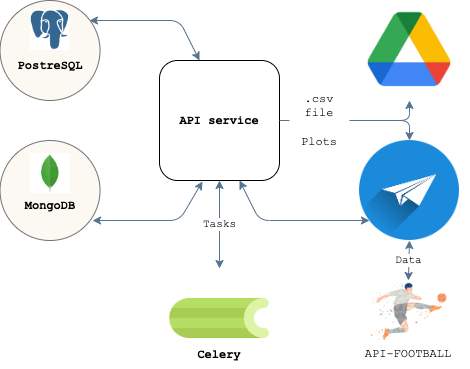
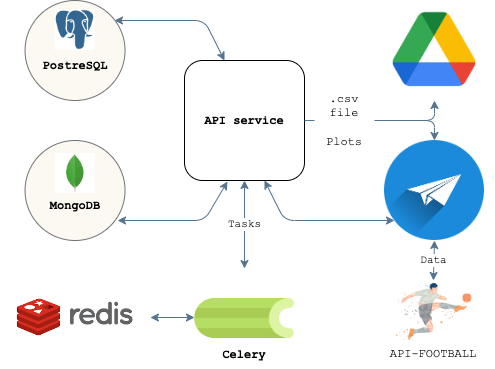
change bot and celery interaction

diff --git a/bot/bot.py b/bot/bot.py
@@ -1,14 +1,16 @@
 import os
 import sys
 from telegram import InlineKeyboardButton, InlineKeyboardMarkup
-from telegram.ext import Updater
+from telegram.ext import Updater, MessageHandler, filters
 from telegram.ext.commandhandler import CommandHandler
 from telegram.ext.callbackqueryhandler import CallbackQueryHandler
 from dotenv import load_dotenv
 from asgiref.sync import async_to_sync
 
-from data_receiver import export_data_to_bot
+from data_receiver import push_task_to_api, get_celery_info, get_result
 from api_football import get_pl_teams
+from database import init_db
+from logger import logger
 
 
 load_dotenv()
@@ -22,6 +24,9 @@ API_PORT = os.getenv('API_PORT')
 URL_DATASET = f'http://{HOST}:{API_PORT}/file-dataset/{PERIOD}'
 URL_DYNAMICS = f'http://{HOST}:{API_PORT}/file-dynamics/{PERIOD}'
 URL_DISPLOT = f'http://{HOST}:{API_PORT}/file-displot/{PERIOD}'
+
+
+cache_db = init_db()
 
 
 def start(update, context):
@@ -47,15 +52,26 @@ def button(update, context):
     query.edit_message_text(text=f"Selected option: {query.data}")
     id = query.message.chat.id
     if query.data == 'dynamics':
+        cache_db.set('current_task_type', 'dynamics')
         async_to_sync(
-            export_data_to_bot)(update, context, id, URL_DYNAMICS)
+            push_task_to_api)(update, context, id, URL_DYNAMICS)
     elif query.data == 'dataset':
-        async_to_sync(export_data_to_bot)(update, context, id, URL_DATASET)
+        cache_db.set('current_task_type', 'dataset')
+        async_to_sync(push_task_to_api)(update, context, id, URL_DATASET)
     elif query.data == 'displot':
-        async_to_sync(export_data_to_bot)(update, context, id, URL_DISPLOT)
+        cache_db.set('current_task_type', 'displot')
+        async_to_sync(push_task_to_api)(update, context, id, URL_DISPLOT)
     elif query.data == 'pl':
         teams = async_to_sync(get_pl_teams)()
         query.edit_message_text(text='\n'.join(teams))
+
+
+def reply(update, context):
+    user_input = update.message.text
+    if not user_input.startswith('/'):
+        cache_db.set('current_id', user_input)
+    update.message.reply_text(
+        async_to_sync(get_celery_info)(user_input))
 
 
 def error(update, context):
@@ -63,10 +79,21 @@ def error(update, context):
     pass
 
 
+def result(update, context):
+    task_id = cache_db.get('current_id').decode('utf-8')
+    logger.info(f'task {task_id}')
+    chat_id = update.message.chat.id
+    async_to_sync(get_result)(update, context, chat_id, task_id)
+    cache_db.set('current_id', None)
+    cache_db.set('current_task_type', None)
+
+
 def main():
     updater = Updater(API_TOKEN, use_context=True)
     updater.dispatcher.add_handler(CommandHandler("start", start))
+    updater.dispatcher.add_handler(CommandHandler("result", result))
     updater.dispatcher.add_handler(CallbackQueryHandler(button))
+    updater.dispatcher.add_handler(MessageHandler(filters.Filters.text, reply))
     updater.dispatcher.add_error_handler(error)
     updater.start_polling()
     updater.idle()

diff --git a/api_app/routers.py b/api_app/routers.py
@@ -3,18 +3,28 @@ from datetime import datetime
 from fastapi import APIRouter, Depends, HTTPException
 from sqlalchemy.orm import Session
 from starlette.requests import Request
-from fastapi.responses import FileResponse
+from fastapi.responses import FileResponse, JSONResponse
 
 from api_app import dependencies
+from api_app.database import cache_db
 from api_app.clubs import crud, schemas
-from api_app.events import make_event, get_filtered_statistics
-from api_app.export import build_bar_plot, build_dynamics_plot, build_displot
+from api_app.events import make_event
 from api_app.export import (
     PNG_FILE_NAME_BARS, PNG_FILE_NAME_DYNAMICS, PNG_FILE_NAME_DISPLOT
+)
+from api_app.celery_tasks import (
+    celery_app, sync_task_bar_plot, sync_task_dynamics_plot, sync_task_displot
 )
 
 
 router = APIRouter()
+
+
+FILES = {
+    'dynamics': PNG_FILE_NAME_DYNAMICS,
+    'dataset': PNG_FILE_NAME_BARS,
+    'displot': PNG_FILE_NAME_DISPLOT,
+}
 
 
 @router.get("/clubs/", response_model=List[schemas.Club])
@@ -51,23 +61,33 @@ async def create_club(*,
 
 @router.get('/file-dataset/{period_in_minutes}', response_class=FileResponse)
 async def get_dataset(period_in_minutes: int):
-    statistics = await get_filtered_statistics(
-        period_in_minutes=period_in_minutes)
-    build_bar_plot(statistics)
-    return PNG_FILE_NAME_BARS
+    task = sync_task_bar_plot.apply_async(countdown=10)
+    return {'status': task.status, 'id': task.id}
 
 
 @router.get('/file-dynamics/{period_in_minutes}', response_class=FileResponse)
 async def get_dynamics(period_in_minutes: int):
-    statistics = await get_filtered_statistics(
-        period_in_minutes=period_in_minutes)
-    build_dynamics_plot(statistics)
-    return PNG_FILE_NAME_DYNAMICS
+    task = sync_task_dynamics_plot.apply_async(countdown=10)
+    return {'status': task.status, 'id': task.id}
 
 
-@router.get('/file-displot/{period_in_minutes}', response_class=FileResponse)
+@router.get('/file-displot/{period_in_minutes}', response_class=JSONResponse)
 async def get_displot(period_in_minutes: int):
-    statistics = await get_filtered_statistics(
-        period_in_minutes=period_in_minutes)
-    build_displot(statistics)
-    return PNG_FILE_NAME_DISPLOT
+    task = sync_task_displot.apply_async(countdown=60)
+    return {'status': task.status, 'id': task.id}
+
+
+@router.get('/tasks/{id}', response_class=JSONResponse)
+async def get_task_status(id):
+    task = celery_app.AsyncResult(id)
+    status = task.status
+    return {'status': status}
+
+
+@router.get('/tasks/{id}/result', response_class=FileResponse)
+async def get_result_file(id):
+    task_type = cache_db.get('current_task_type').decode('utf-8')
+    task = celery_app.AsyncResult(id)
+    status = task.status
+    if status == 'SUCCESS':
+        return FILES[task_type]

diff --git a/bot/data_receiver.py b/bot/data_receiver.py
@@ -1,12 +1,38 @@
 import aiohttp
+import os
 from dotenv import load_dotenv
 
 
 load_dotenv()
 
 
-async def export_data_to_bot(bot, context, chat_id, url):
+HOST = os.getenv('HOST')
+API_PORT = os.getenv('API_PORT')
+
+NO_DATA = "Requested data don't exist"
+
+
+async def push_task_to_api(bot, context, chat_id, url):
+    async with aiohttp.ClientSession() as session:
+        async with session.get(url) as response:
+            data = await response.json()
+            context.bot.send_message(chat_id, data)
+
+
+async def get_celery_info(task_id):
+    url = f'http://{HOST}:{API_PORT}/tasks/{task_id}'
+    async with aiohttp.ClientSession() as session:
+        async with session.get(url) as response:
+            data = await response.json()
+            return data['status']
+
+
+async def get_result(bot, context, chat_id, task_id):
+    url = f'http://{HOST}:{API_PORT}/tasks/{task_id}/result'
     async with aiohttp.ClientSession() as session:
         async with session.get(url) as response:
             data = await response.read()
-            context.bot.send_document(chat_id, data)
+            if response.status == 200:
+                context.bot.send_document(chat_id, data)
+            else:
+                context.bot.send_message(chat_id, NO_DATA)

diff --git a/api_app/celery_tasks.py b/api_app/celery_tasks.py
@@ -25,13 +25,16 @@ PERIOD_FOR_CELERY_TASK = 1
 
 RABBIT_URL = os.getenv('RABBIT_URL')
 
-celery = Celery(
+celery_app = Celery(
     __name__,
-    backend='rpc://',
-    broker=RABBIT_URL
+    backend='redis://localhost:6379',
+    broker=RABBIT_URL,
+    task_track_started=True,
+    task_ignore_result=False,
+    enable_utc=True
 )
 
-celery.conf.enable_utc = True
+celery_app.autodiscover_tasks()
 
 
 async def publish_data(
@@ -77,7 +80,7 @@ def sync_task_displot():
     )
 
 
-celery.conf.beat_schedule = {
+celery_app.conf.beat_schedule = {
     'publish_statistics': {
         'task': 'api_app.celery_tasks.sync_task_statistics',
         'schedule': crontab(minute=f"*/{PERIOD_FOR_CELERY_TASK}")

diff --git a/bot/logger.py b/bot/logger.py
@@ -1,0 +1,23 @@
+import logging
+import sys
+
+
+LOG_FILE_NAME = 'bot.log'
+
+
+def setup_logging():
+    logging.basicConfig(filename=LOG_FILE_NAME,
+                        level=logging.DEBUG,
+                        format='%(asctime)s %(message)s',
+                        datefmt='%m/%d/%Y %I:%M:%S %p')
+    logger = logging.getLogger()
+    stream_handler = logging.StreamHandler(stream=sys.stdout)
+    stream_handler.setLevel(logging.INFO)
+    logger.addHandler(stream_handler)
+    file_handler = logging.FileHandler(filename='bot.log')
+    file_handler.setLevel(logging.DEBUG)
+    logger.addHandler(file_handler)
+    return logger
+
+
+logger = setup_logging()

diff --git a/api_app/database.py b/api_app/database.py
@@ -1,6 +1,7 @@
 import os
 import motor.motor_asyncio
 import databases
+import redis
 
 from sqlalchemy import create_engine
 from sqlalchemy.ext.declarative import declarative_base
@@ -27,3 +28,5 @@ mongo_client = motor.motor_asyncio.AsyncIOMotorClient(
     host=os.getenv('HOST'), port=27017)
 
 DB = 'clubs'
+
+cache_db = redis.Redis(db=2)

diff --git a/api_app/__init__.py b/api_app/__init__.py
@@ -1,0 +1,6 @@
+from __future__ import absolute_import, unicode_literals
+
+from api_app.celery_tasks import celery_app
+
+
+__all__ = ('celery_app', )

diff --git a/bot/database.py b/bot/database.py
@@ -1,0 +1,5 @@
+import redis
+
+
+def init_db():
+    return redis.Redis(db=2)

diff --git a/README.md b/README.md
@@ -23,6 +23,10 @@ The app consists of API service, which provides information about football clubs
 - In the bot with /start you will have several buttons:
     - buttons for getting plots,
     - buttons for getting information, using a source [Api-Football](https://www.api-football.com).
+- First you'll receive the id of Celery task, which is responsible for plot building.
+- You can check the status of the task by sending task ID to the bot. The bot will return you on of several possibilities (PENDING, STARTED, SUCCESS).
+- If the task status is SUCCESS, you can receive the plot from bot by sending the command /result.
+- The bot asks for the data from API service. Information about tasks' statuses is stored in Redis database (which is used as backend in Celery app).
 ____
 
 ![App structure](image/app_diagram.png "App structure") 
@@ -38,6 +42,7 @@ This project was built using these tools:
 | [PostgreSQL](https://www.postgresql.org/) |  "An open source object-relational database system" |
 | [SQLAlchemy](https://www.sqlalchemy.org/) |  "The Python SQL toolkit and Object Relational Mapper" |
 | [MongoDB](https://www.mongodb.com/) |  "A NoSQL database program" |
+| [Redis](https://redis.io/) |  "The open source, in-memory data store" |
 | [seaborn](https://seaborn.pydata.org/index.html) | "A Python data visualization library based on matplotlib" |
 | [poetry](https://python-poetry.org/) |  "Python dependency management and packaging made easy" |
 
@@ -73,14 +78,16 @@ $ make run
 
 **Launch a bot**
 ```
-$ make bot
+$ make bot_
 ```
 
 **Launch Celery**
 ```
-# You have to run celery in two terminals with these commands.
 
+# Launch Celery scheduled tasks
 $ celery -A api_app.celery_tasks beat --loglevel=info
+
+# Launch the Celery worker (it's also necessary for the bot)
 $ celery -A api_app.celery_tasks worker --loglevel=info --pool solo
 ```
 
